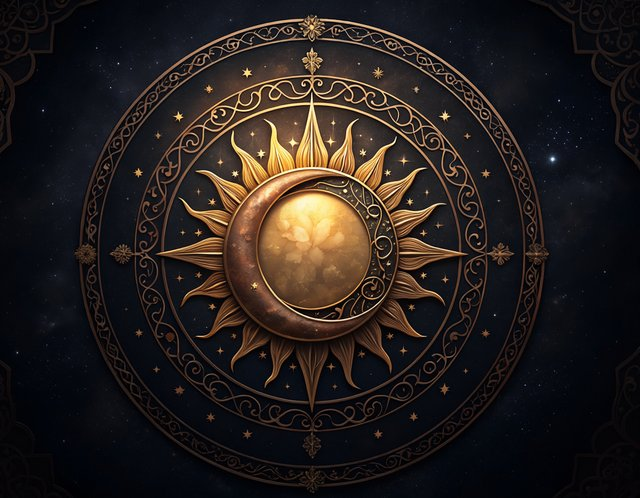
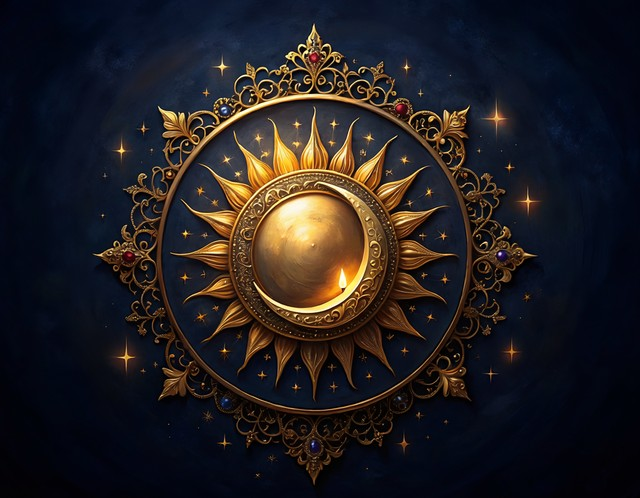
feat(home): daily & istikhara as full-size fortune cards with Firefly art
Per design direction: not small tiles — the daily reading and the istikhara
now render as two FULL PortraitFortuneCards, byte-for-byte the same widget,
aspect and radius as every other fortune card (coffee, tarot, …), in the
proven _EditorialLove two-up Row pattern.

The Firefly emblems become the canonical artwork: center-cropped to the
standard 640×498 and written to assets/fortunes/daily.jpg and quran.jpg, so
the same art now appears consistently on Home, the fortunes grid, the ritual
backdrop and the result hero. No focal-crop overrides exist for either id
(center default fits the radially-centred emblems). The 256px qa_ tiles were
removed along with their references.

diff --git a/apps/mobile/lib/features/home/presentation/pages/home_page.dart b/apps/mobile/lib/features/home/presentation/pages/home_page.dart
@@ -282,29 +282,42 @@ class _ProfileChip extends StatelessWidget {
   }
 }
 
-/// Compact quick actions: two borderless icon + label tiles that open their
-/// own rituals directly — the daily reading and the istikhara.
+/// The daily reading and the istikhara as two FULL fortune cards — exactly
+/// the size and shape of every other fortune card (coffee, tarot, …), with
+/// their own Firefly artwork resolved from the fortunes art folder.
 class _QuickActionsRow extends StatelessWidget {
   const _QuickActionsRow({required this.onOpen});
 
   final void Function(String id) onOpen;
 
-  static const _items = [
-    (id: 'daily', asset: 'assets/icons/qa_daily.jpg', label: 'فال روزانه'),
-    (id: 'quran', asset: 'assets/icons/qa_estekhare.jpg', label: 'استخاره'),
-  ];
-
   @override
   Widget build(BuildContext context) {
     return Row(
-      mainAxisAlignment: MainAxisAlignment.spaceEvenly,
+      crossAxisAlignment: CrossAxisAlignment.start,
       children: [
-        for (final item in _items)
-          QuickActionTile(
-            asset: item.asset,
-            label: item.label,
-            onTap: () => onOpen(item.id),
+        Expanded(
+          child: PortraitFortuneCard(
+            id: 'daily',
+            title: 'فال روزانه',
+            subtitle: 'ویژهٔ امروز',
+            accent: _accentFor('daily'),
+            available: true,
+            soonLabel: 'بهزودی',
+            onTap: () => onOpen('daily'),
           ),
+        ),
+        const SizedBox(width: AppLayout.cardGap),
+        Expanded(
+          child: PortraitFortuneCard(
+            id: 'quran',
+            title: 'استخاره',
+            subtitle: 'استخارهٔ قرآن',
+            accent: _accentFor('quran'),
+            available: true,
+            soonLabel: 'بهزودی',
+            onTap: () => onOpen('quran'),
+          ),
+        ),
       ],
     );
   }
